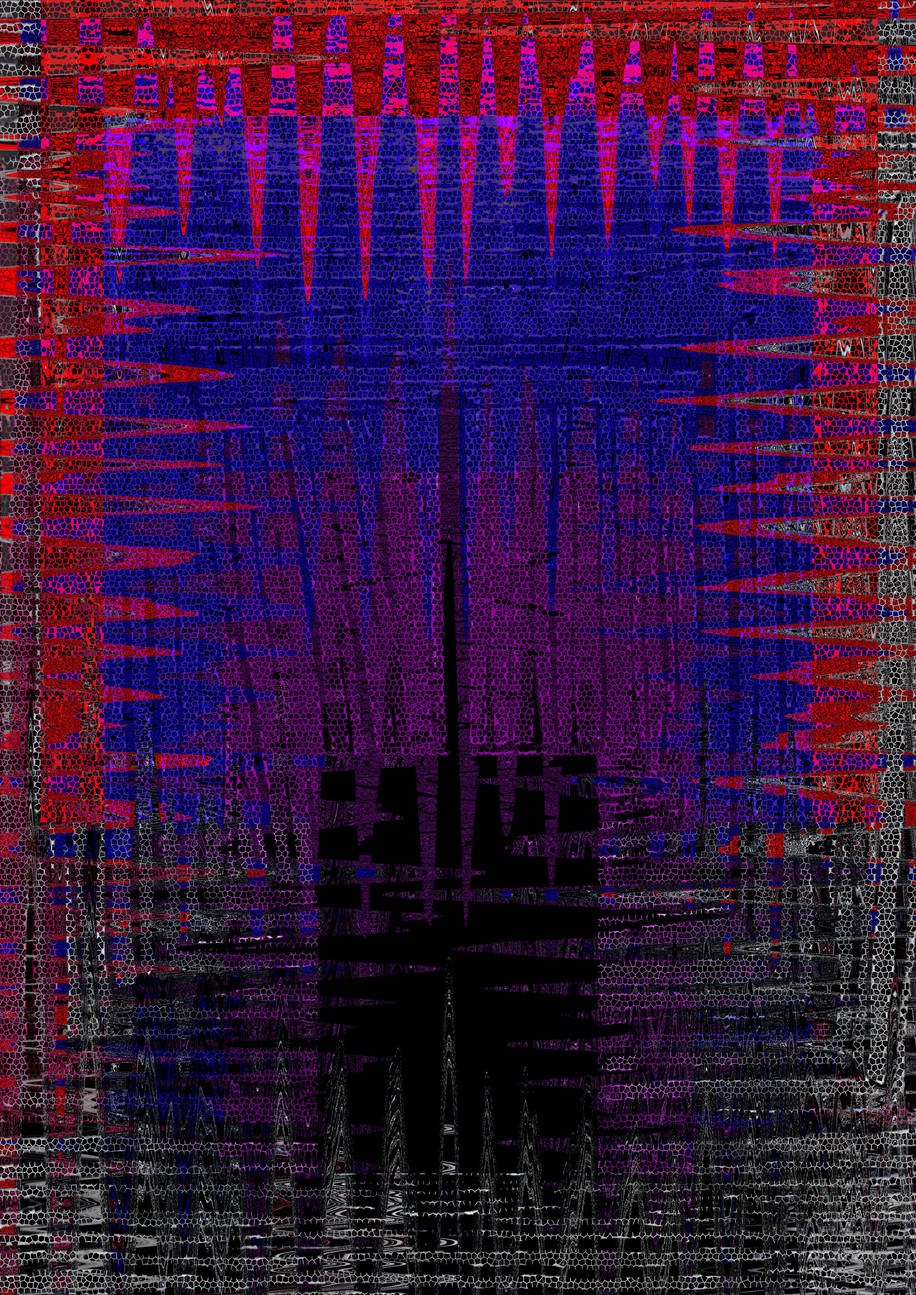
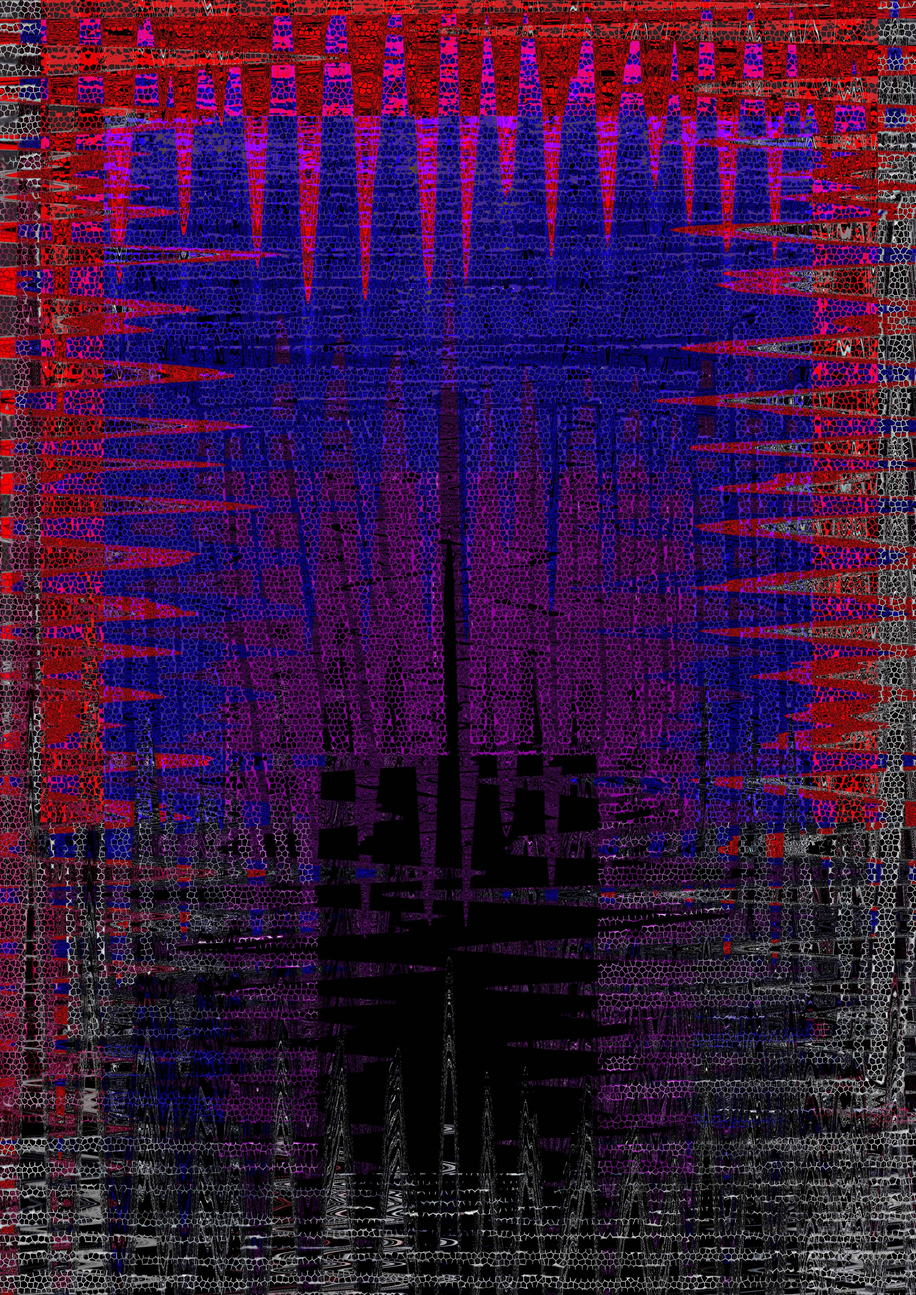
tests with compression

diff --git a/src/app/layout.tsx b/src/app/layout.tsx
@@ -1,23 +1,32 @@
-import './globals.css'
-import type { Metadata } from 'next'
-import { Inter } from 'next/font/google'
-import { Analytics } from '@vercel/analytics/react';
-const inter = Inter({ subsets: ['latin'] })
+import "./globals.css";
+import type { Metadata } from "next";
+import { Inter } from "next/font/google";
+import { Analytics } from "@vercel/analytics/react";
+import Head from "next/head";
+import { worksData } from "./works";
+const inter = Inter({ subsets: ["latin"] });
 
 export const metadata: Metadata = {
-  title: '01010000 01010010 01001111 01001010 01000101 01001011 01010100 00100000 01011010 01000101 01010010 01001111 00100000 01001010 01000101 01000100 01000101 01001110',
-  description: '01010000 01010010 01001111 01001010 01000101 01001011 01010100 00100000 01011010 01000101 01010010 01001111 00100000 01001010 01000101 01000100 01000101 01001110',
-}
+  title:
+    "01010000 01010010 01001111 01001010 01000101 01001011 01010100 00100000 01011010 01000101 01010010 01001111 00100000 01001010 01000101 01000100 01000101 01001110",
+  description:
+    "01010000 01010010 01001111 01001010 01000101 01001011 01010100 00100000 01011010 01000101 01010010 01001111 00100000 01001010 01000101 01000100 01000101 01001110",
+};
 
 export default function RootLayout({
   children,
 }: {
-  children: React.ReactNode
+  children: React.ReactNode;
 }) {
   return (
     <html lang="en">
+      <Head>
+        {worksData.map((item) => (
+          <link key={item.title} rel="preload" href={item.src} as="image" />
+        ))}
+      </Head>
       <body className={inter.className}>{children}</body>
       <Analytics />
     </html>
-  )
+  );
 }

diff --git a/src/app/works.ts b/src/app/works.ts
@@ -75,7 +75,7 @@ export const worksData: Works = [
   },
   {
     title: "00111001",
-    src: "/works/9.png",
+    src: "/works/9.jpg",
     description: "",
     date: "unknown",
     width: 1680,

diff --git a/src/app/page.tsx b/src/app/page.tsx
@@ -19,6 +19,7 @@ const WorksItem = (props: Work) => {
         width={props.width}
         height={props.height}
         quality={100}
+        priority
       />
     </div>
   );
